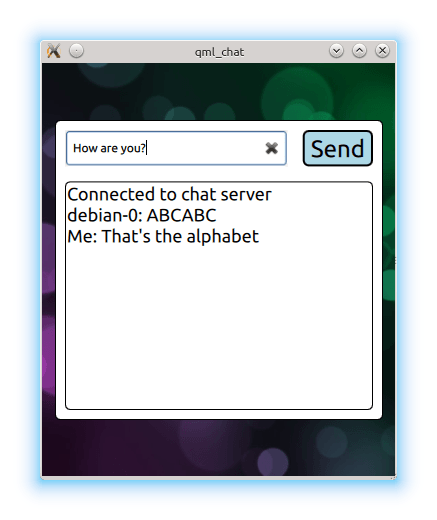
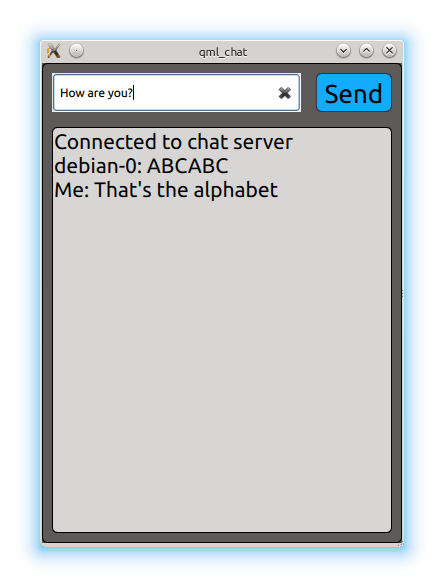
Improve QML Chat example UI
This makes the example more compliant with general UI color guidelines
and cuts out unnecessary code.

diff --git a/examples/bluetooth/chat/Button.qml b/examples/bluetooth/chat/Button.qml
@@ -46,30 +46,22 @@ Rectangle {
 
     // Attaches to the Text element's text content
     property string label
-    property color textColor: buttonLabel.color
-
-    // The color highlight when the mouse hovers on the rectangle
-    //property color onHoverColor: "lightsteelblue"
-    property color onHoverColor: "black"
-    property color borderColor: "transparent"
-
-    // buttonColor is set to the button's main color
-    property color buttonColor: "lightblue"
 
     // Set appearance properties
-    radius: 6
+    radius: 3
     antialiasing: true
-    border.width: 2
-    border.color: borderColor
-    height: buttonLabel.height * 1.3
-    width: buttonLabel.width * 1.3
+    border.width: 1
+    border.color: "#35322f"
+    color: "#14aaff"
+    height: buttonLabel.height * 1.5
+    width: buttonLabel.width * 1.5
 
     Text {
         id: buttonLabel
         anchors.centerIn: parent
         text: label     // Bind the text to the parent's text
         color: "black"
-        font.pixelSize: 24
+        font.pointSize: 20
     }
 
     // buttonClick() is callable and a signal handler,
@@ -81,21 +73,8 @@ Rectangle {
         id: buttonMouseArea
         anchors.fill: parent    // Stretch the area to the parent's dimension
         onClicked: buttonClick()
-
-        // If true, then onEntered and onExited called if mouse hovers in the mouse area
-        // If false, a button must be clicked to detect the mouse hover
-        hoverEnabled: true
-
-        // Display a border if the mouse hovers on the button mouse area
-        onEntered: parent.border.color = onHoverColor
-        //Remove the border if the mouse exits the button mouse area
-        onExited:  parent.border.color = borderColor
     }
 
-    // Change the color of the button when pressed
-    color: buttonMouseArea.pressed ? Qt.darker(buttonColor, 1.5) : buttonColor
-    // Animate the color whenever the color property changes
-    Behavior on color { ColorAnimation { duration: 55 } }
 
     // Scale the button when pressed
     scale: buttonMouseArea.pressed ? 1.1 : 1.0

diff --git a/examples/bluetooth/chat/chat.qml b/examples/bluetooth/chat/chat.qml
@@ -45,6 +45,7 @@ Item {
     id: top
 
     Component.onCompleted: state = "begin"
+
     property string remoteDeviceName: ""
     property bool serviceFound: false
 
@@ -109,12 +110,11 @@ Item {
     }
 
 
-    Image {
+    Rectangle {
         id: background
         z: 0
         anchors.fill: parent
-        source: "images/background.jpg"
-        fillMode: Image.PreserveAspectCrop
+        color: "#5d5b59"
     }
 
     Search {
@@ -126,18 +126,20 @@ Item {
     Rectangle {
         id: chatBox
         opacity: 0
-
         anchors.centerIn: top
 
-        width: top.width - 25
-        height: 300
-        color: "white"
+        color: "#5d5b59"
         border.color: "black"
         border.width: 1
         radius: 5
+        anchors.fill: parent
 
         function sendMessage()
         {
+            // toogle focus to force end of input method composer
+            var hasFocus = input.focus;
+            input.focus = false;
+
             var data = input.text
             input.clear()
             chatContent.append({content: "Me: " + data})
@@ -145,6 +147,8 @@ Item {
             socket.stringData = data
             //! [BluetoothSocket-5]
             chatView.positionViewAtEnd()
+
+            input.focus = hasFocus;
         }
 
         Item {
@@ -170,7 +174,7 @@ Item {
             Rectangle {
                 height: parent.height - input.height - 15
                 width: parent.width;
-                color: "white"
+                color: "#d7d6d5"
                 anchors.bottom: parent.bottom
                 border.color: "black"
                 border.width: 1
@@ -185,7 +189,7 @@ Item {
                     clip: true
                     delegate: Component {
                         Text {
-                            font.pixelSize: 18
+                            font.pointSize: 14
                             text: modelData
                         }
                     }

diff --git a/examples/bluetooth/chat/InputBox.qml b/examples/bluetooth/chat/InputBox.qml
@@ -57,13 +57,6 @@ FocusScope {
         border { left: 4; top: 4; right: 4; bottom: 4 }
     }
 
-    BorderImage {
-        source: "images/lineedit-bg-focus.png"
-        width: parent.width; height: parent.height
-        border { left: 4; top: 4; right: 4; bottom: 4 }
-        visible: parent.activeFocus ? true : false
-    }
-
     Text {
         id: typeSomething
         anchors.fill: parent; anchors.leftMargin: 8
@@ -71,6 +64,7 @@ FocusScope {
         text: "Type something..."
         color: "gray"
         font.italic: true
+        font.pointSize: 14
     }
 
     MouseArea {
@@ -83,6 +77,7 @@ FocusScope {
         anchors { left: parent.left; leftMargin: 8; right: clear.left; rightMargin: 8; verticalCenter: parent.verticalCenter }
         focus: true
         selectByMouse: true
+        font.pointSize: 14
     }
 
     Image {
@@ -92,13 +87,22 @@ FocusScope {
         opacity: 0
 
         MouseArea {
-            anchors.fill: parent
-            onClicked: { textInput.text = ''; focusScope.focus = true; }
+            // allow area to grow beyond image size
+            // easier to hit the area on high DPI devices
+            anchors.centerIn: parent
+            height:focusScope.height
+            width: focusScope.height
+            onClicked: {
+                //toogle focus to be able to jump out of input method composer
+                focusScope.focus = false;
+                textInput.text = '';
+                focusScope.focus = true;
+            }
         }
     }
 
     states: State {
-        name: "hasText"; when: textInput.text != ''
+        name: "hasText"; when: (textInput.text != '' || textInput.inputMethodComposing)
         PropertyChanges { target: typeSomething; opacity: 0 }
         PropertyChanges { target: clear; opacity: 1 }
     }

diff --git a/examples/bluetooth/chat/Search.qml b/examples/bluetooth/chat/Search.qml
@@ -49,7 +49,7 @@ Rectangle {
 
     width: searchText.width + 40;
     height: searchText.height + bluetoothImage.height + 40;
-    color: "white"
+    color: "#d7d6d5"
     border.color: "black"
     border.width: 1
     radius: 5

diff --git a/examples/bluetooth/chat/qmlchat.cpp b/examples/bluetooth/chat/qmlchat.cpp
@@ -55,7 +55,7 @@ int main(int argc, char *argv[])
     // Qt.quit() called in embedded .qml by default only emits
     // quit() signal, so do this (optionally use Qt.exit()).
     QObject::connect(view.engine(), SIGNAL(quit()), qApp, SLOT(quit()));
-    view.setGeometry(QRect(100, 100, 360, 640));
+    view.setGeometry(QRect(100, 100, 360, 480));
     view.show();
     return application.exec();
 }
